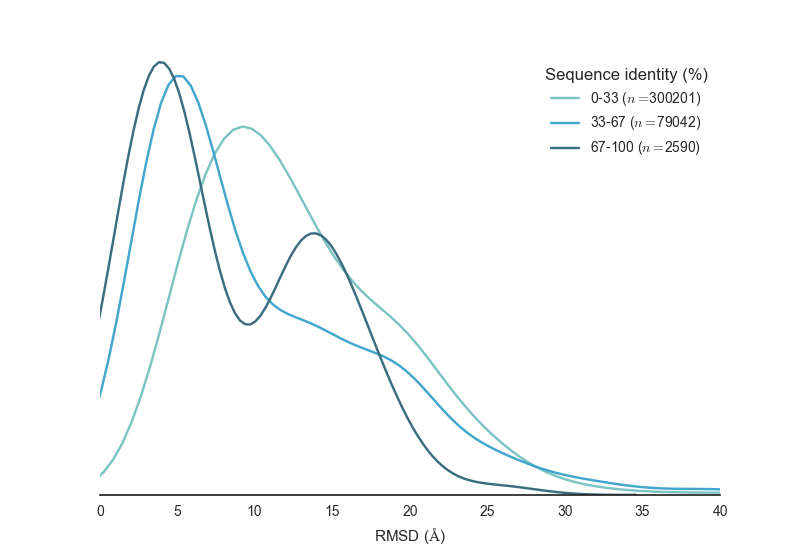
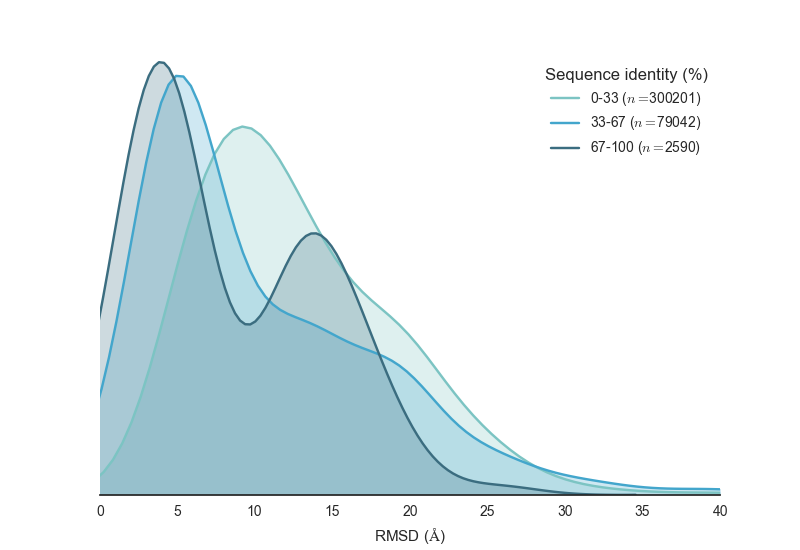
Updated sequence identity distribution figure

Changed region(s): [[0.125, 0.1236, 0.8125, 0.8964]]

diff --git a/figures/rmsddist/rmsddist.py b/figures/rmsddist/rmsddist.py
@@ -69,11 +69,13 @@ sns.kdeplot(df_has_model.seqid, bw=1., ax=ax1, color=palette[0])
 ax1.set_ylabel('probability density', color=palette[0])
 ax1.legend_.remove()
 ax1.set_xlabel('sequence identity (%)')
-ax2 = ax1.twinx()
-sns.kdeplot(df_has_model.seqid, bw=1., cumulative=True, ax=ax2, color=palette[1])
-ax2.set_ylabel('cumulative probability density', color=palette[1])
+ax2 = ax1.twinx().twiny()
+sns.kdeplot(100.-df_has_model.seqid, bw=1., cumulative=True, ax=ax2, color=palette[1])
 ax2.legend_.remove()
 # sns.despine(left=True)
 # plt.setp(plt.gca(), yticks=[])
-plt.xlim(0,100)
+ax1.set_xlim(100,0)
+ax2.set_xlim(0,100)
+ax2.set_ylabel('CDF', color=palette[1])
+plt.setp(ax2, xticks=[])
 plt.savefig('seqid_dist.png')

diff --git a/figures/rmsddist/rmsddist2.py b/figures/rmsddist/rmsddist2.py
@@ -38,7 +38,7 @@ for i, seqid_range in enumerate(seqid_ranges):
     label = '%.0f-%.0f ($n=$%d)' % (seqid_range[0], seqid_range[1], len(df_seqid_bin))
 
     # sns.distplot(df_seqid_bin.rmsd, label=labels[i], hist=False)
-    sns.kdeplot(df_seqid_bin.rmsd*10, label=label, color=palette[i], bw=2.5)
+    sns.kdeplot(df_seqid_bin.rmsd*10, label=label, color=palette[i], bw=2.5, shade=True)
 
     # if i == 4:
     #     sns.rugplot(df_seqid_bin.rmsd*10, color=palette[i])
